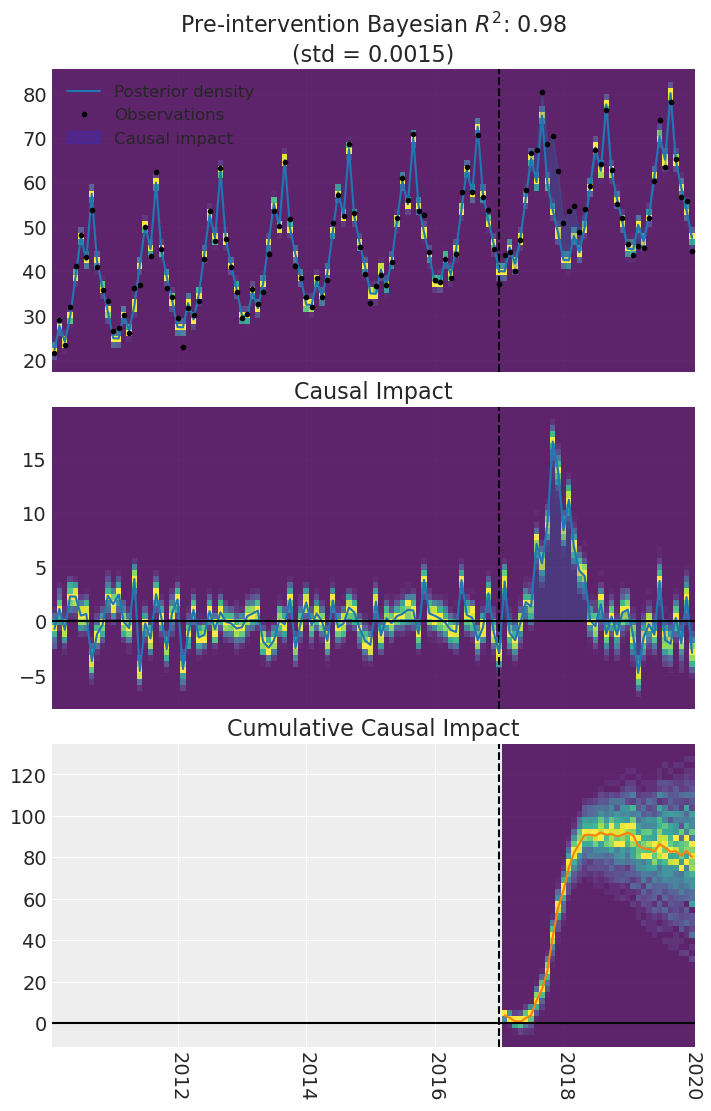
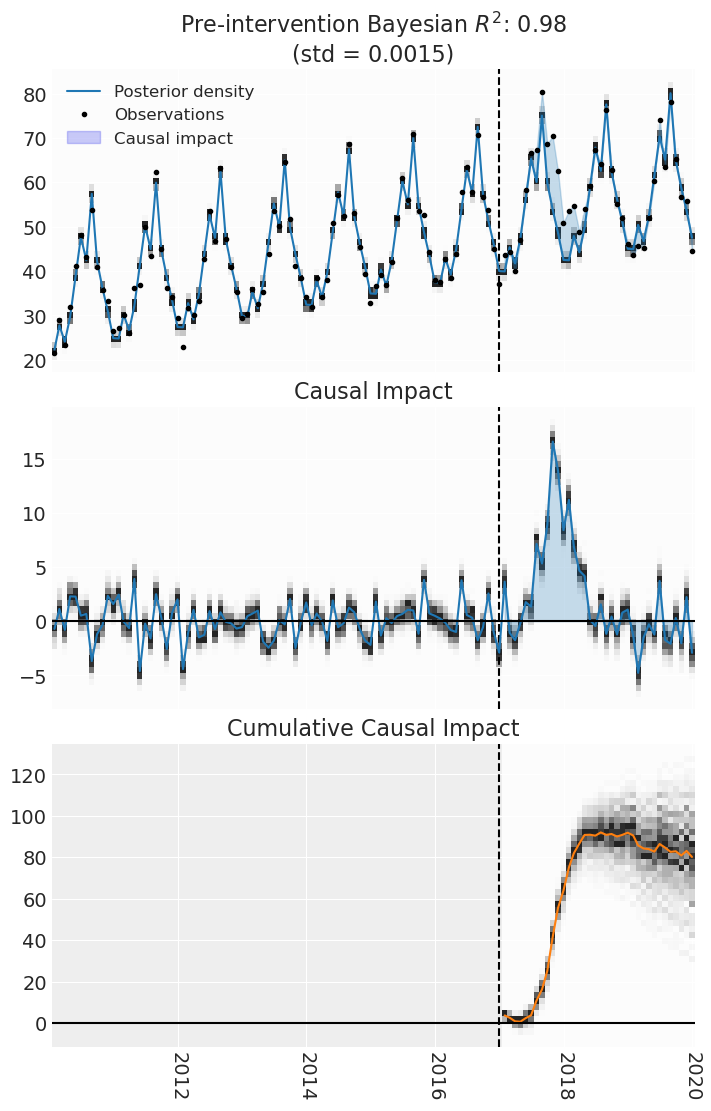
Use Greys colormap for histogram posterior heatmaps (#988)
White background at zero column-normalized density, black at the peak; pin vmin/vmax to [0, 1] so the scale is stable across panels.

diff --git a/causalpy/plot_utils.py b/causalpy/plot_utils.py
@@ -357,8 +357,9 @@ def _plot_histogram(
     """Plot histogram visualization of the posterior as a 2D heatmap.
 
     Columns are time points (x), rows are y-value bins; cell values are
-    per-time histogram counts, column-normalized for display. The posterior
-    mean line is overlaid on top.
+    per-time histogram counts, column-normalized for display (0 = white,
+    1 = black under the default ``Greys`` colormap). The posterior mean line
+    is overlaid on top.
     """
     if plot_hdi_kwargs is None:
         plot_hdi_kwargs = {}
@@ -409,7 +410,7 @@ def _plot_histogram(
         x_edges[-1] = x_num[-1] + dx[-1] / 2
         x_edges[1:-1] = x_num[:-1] + dx / 2
 
-    cmap = plot_hdi_kwargs.get("cmap", "viridis")
+    cmap = plot_hdi_kwargs.get("cmap", "Greys")
     alpha = float(plot_hdi_kwargs.get("alpha", 0.85))
     color_line = plot_hdi_kwargs.get("color", "C0")
 
@@ -418,6 +419,8 @@ def _plot_histogram(
         y_edges,
         hist2d_norm,
         cmap=cmap,
+        vmin=0.0,
+        vmax=1.0,
         shading="flat",
         alpha=alpha,
     )

diff --git a/causalpy/tests/test_plot_utils.py b/causalpy/tests/test_plot_utils.py
@@ -266,6 +266,7 @@ def test_plot_xY_histogram(synthetic_posterior_data):
         "Should have collections or images (pcolormesh/heatmap)"
     )
     assert len(ax.lines) > 0, "Should have at least one line (mean overlay)"
+    assert ax.collections[0].get_cmap().name == "Greys"
 
     plt.close(fig)
 